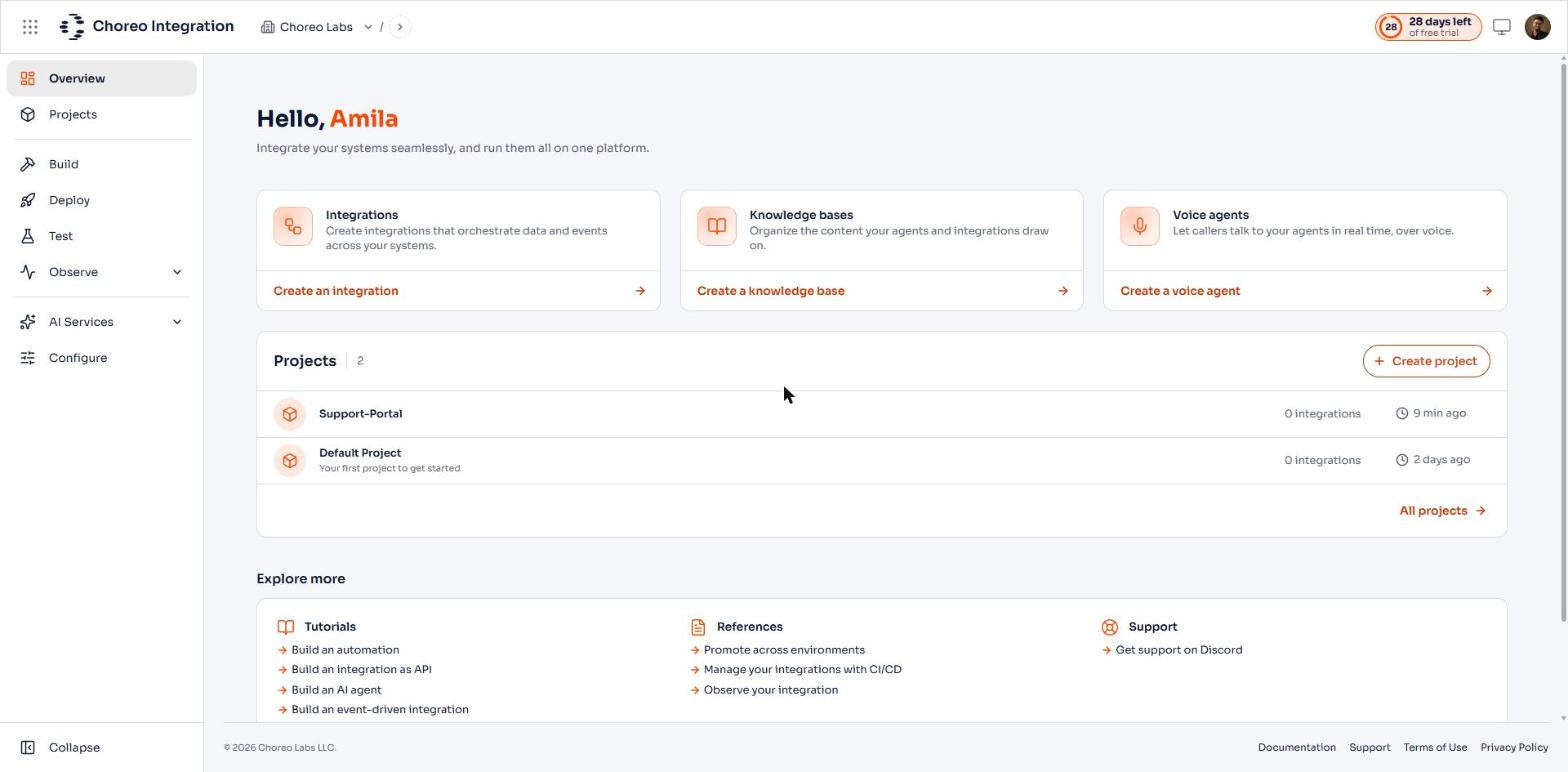
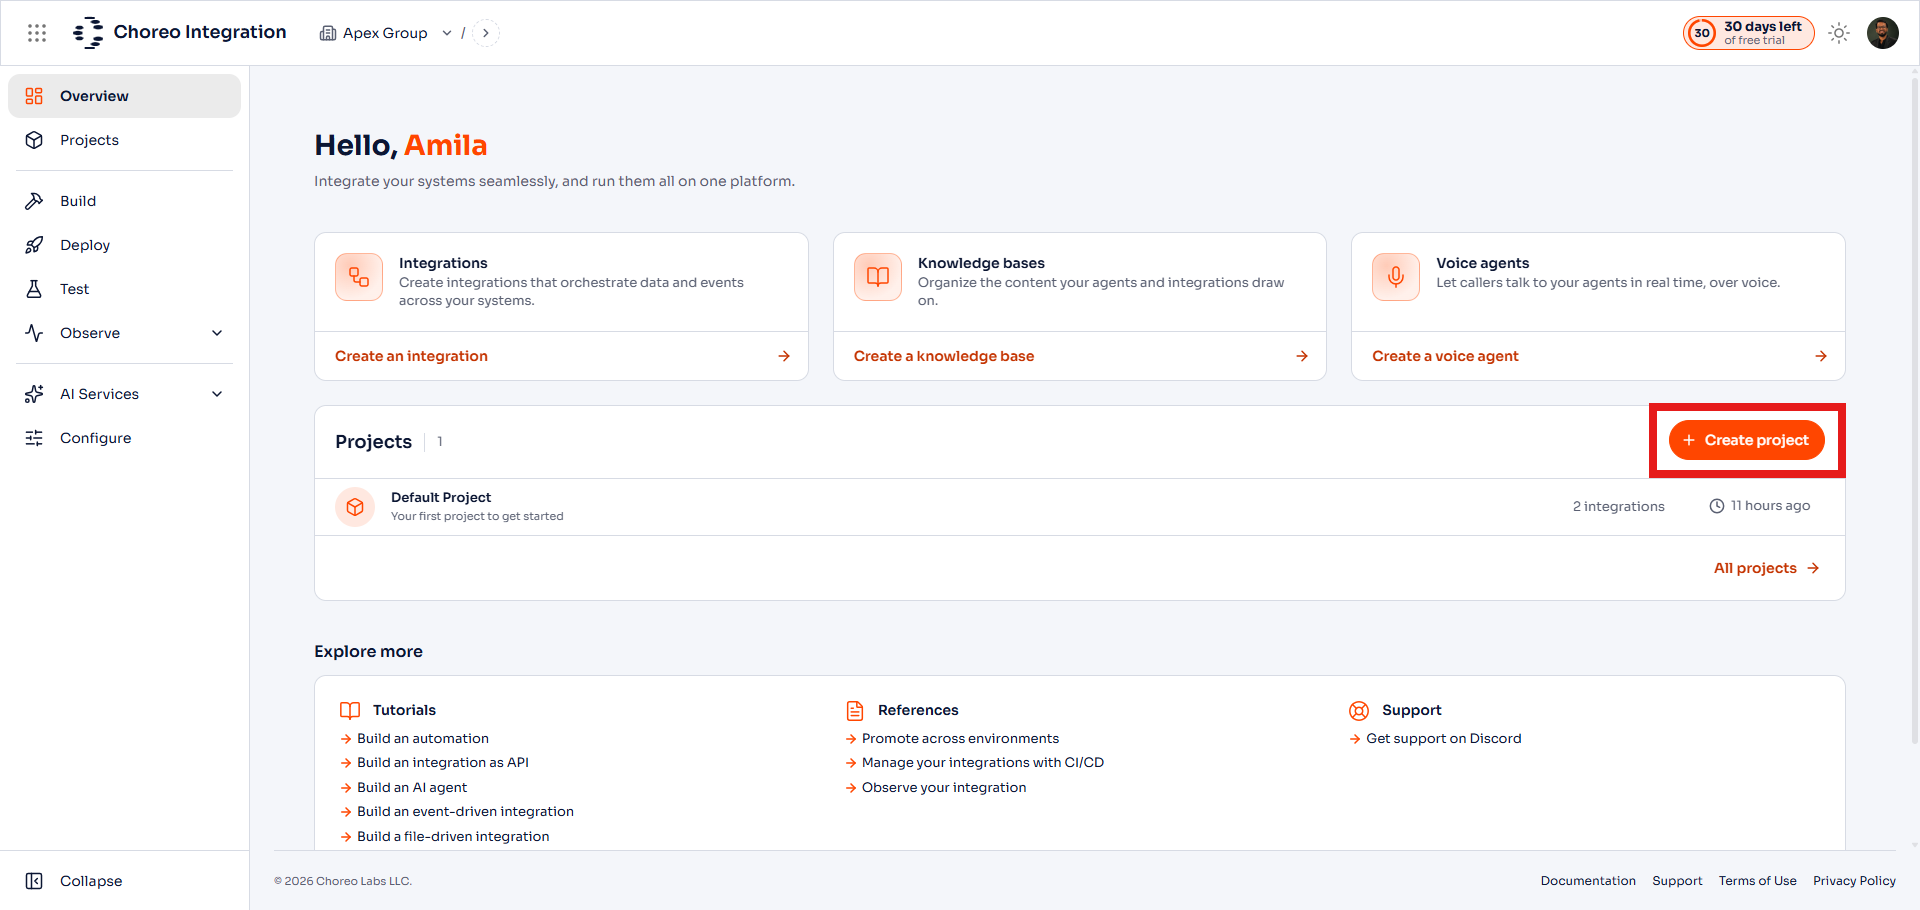
docs(v3): re-shoot the create project screenshots
Replace all three create-project screenshots with v3 captures: the
organization overview with Create project highlighted, the Create a
project form, and the new project's overview.

The default project is named "Default Project", not "Default".

diff --git a/en/docs/develop-and-test/create-workspace/create-a-project.md b/en/docs/develop-and-test/create-workspace/create-a-project.md
@@ -10,7 +10,7 @@ import useBaseUrl from '@docusaurus/useBaseUrl';
 
 # Create a Project
 
-A project is the top-level container for your integrations on Choreo Cloud. Use projects to group related integrations and manage them together. Choreo Cloud creates a project named **Default** when you first sign up, and you can create more at any time.
+A project is the top-level container for your integrations on Choreo Cloud. Use projects to group related integrations and manage them together. Choreo Cloud creates a project named **Default Project** when you first sign up, and you can create more at any time.
 
 :::tip
 If your project already exists in a Git repository, import it instead. See [Import a project](import-a-project.md).
@@ -22,7 +22,7 @@ If your project already exists in a Git repository, import it instead. See [Impo
 2. Click **+ Create project**.
 
     <ThemedImage
-        alt="Organization overview with the Create project button"
+        alt="Organization overview with the Create project button highlighted above the list of projects"
         sources={{
             light: useBaseUrl('/img/create-project/create-project-saas-button.png'),
             dark: useBaseUrl('/img/create-project/create-project-saas-button.png'),
